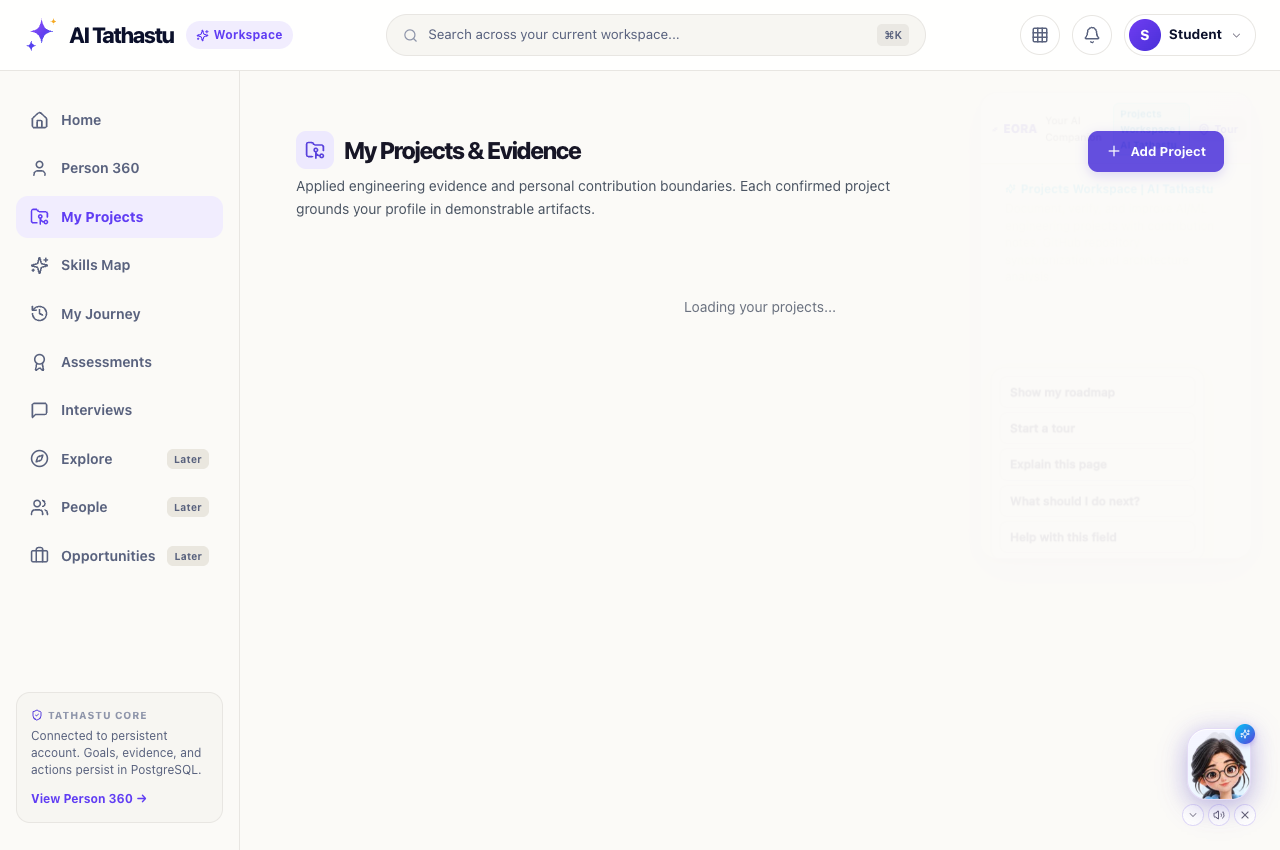
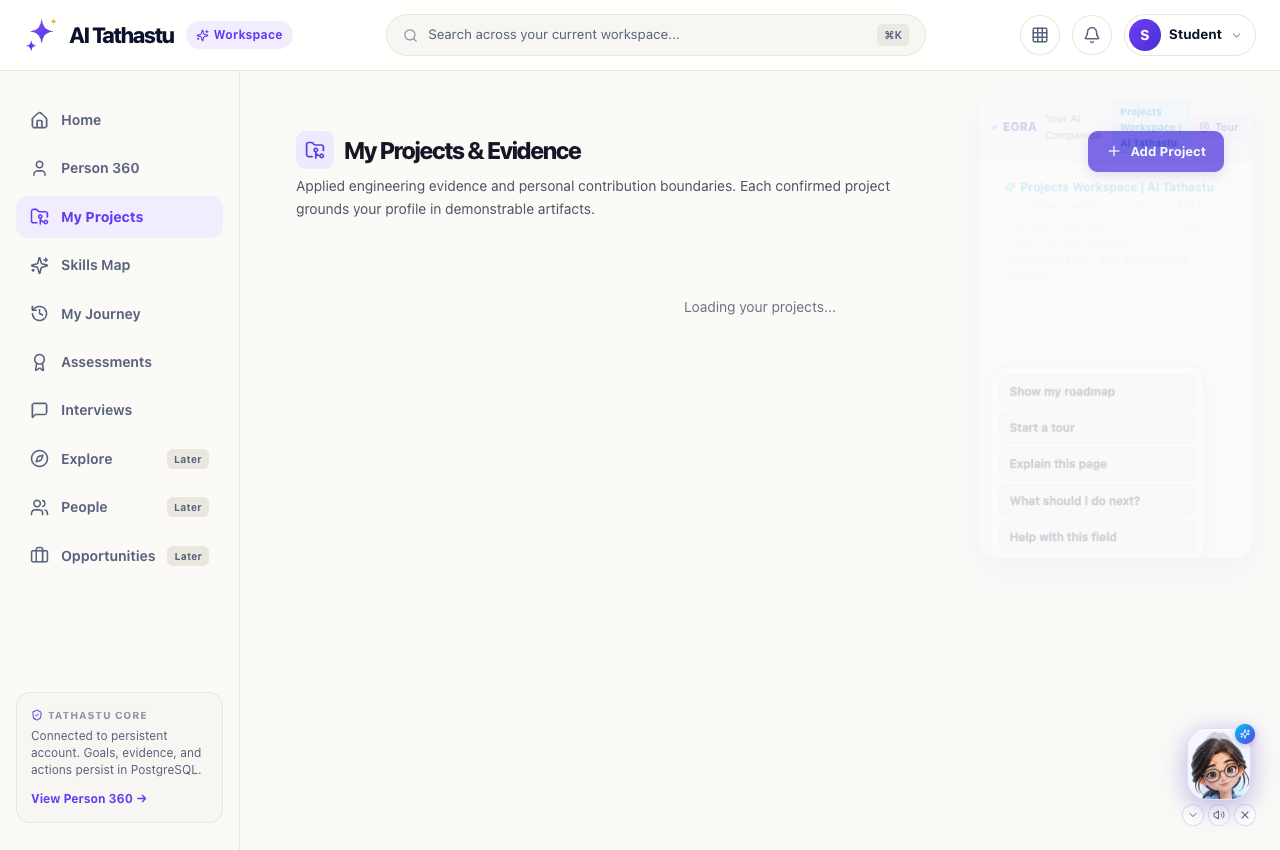
fix(eora): suppress proactive nudges when companion panel is already open

Changed region(s): [[0.8438, 0.1224, 0.9688, 0.2141], [0.7812, 0.1224, 0.8125, 0.1529]]

diff --git a/components/eora/eora-provider.tsx b/components/eora/eora-provider.tsx
@@ -304,7 +304,7 @@ export function EoraProvider({ children }: { children: React.ReactNode }) {
       route === "sign-up"
     )
       return;
-    if (shouldEoraBeQuiet(context) || activeTour || !isVisible) return;
+    if (shouldEoraBeQuiet(context) || activeTour || !isVisible || isPanelOpen) return;
     if (isEoraSnoozed(preferences)) return;
 
     proactiveTimer.current = setTimeout(() => {
@@ -353,7 +353,7 @@ export function EoraProvider({ children }: { children: React.ReactNode }) {
       if (proactiveTimer.current) clearTimeout(proactiveTimer.current);
     };
     // eslint-disable-next-line react-hooks/exhaustive-deps
-  }, [pathname, onboardingStep, lastSuccessfulAction, hasLiveStudentData, activeTour, isVisible]);
+  }, [pathname, onboardingStep, lastSuccessfulAction, hasLiveStudentData, activeTour, isVisible, isPanelOpen]);
 
   // ── Onboarding step change → EORA message ─────────────────────────────────
   useEffect(() => {
@@ -866,7 +866,10 @@ export function EoraProvider({ children }: { children: React.ReactNode }) {
   }, []);
 
   const expand = useCallback(() => setIsMinimized(false), []);
-  const openPanel = useCallback(() => setIsPanelOpen(true), []);
+  const openPanel = useCallback(() => {
+    if (proactiveTimer.current) clearTimeout(proactiveTimer.current);
+    setIsPanelOpen(true);
+  }, []);
   const closePanel = useCallback(() => setIsPanelOpen(false), []);
 
   const snoozeHandler = useCallback((minutes: number) => {
